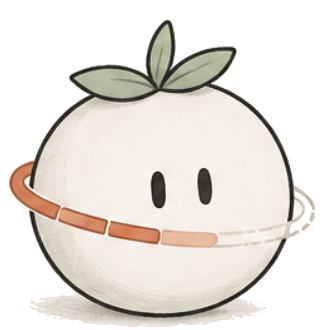
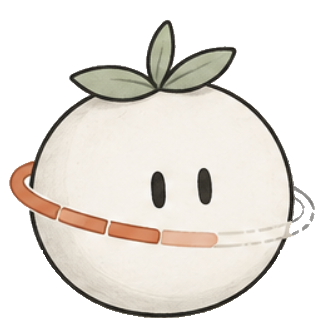
fix(companion): multi-tab position sync, isolate overlay from web app, remove red dot, fix dark shadow (ADR-0071)
- Scope extension overlay outside MEANT web app (prevent duplicate companion)
- Synchronize companion coordinates across all tabs in real-time
- Remove inner red dot artifact from tomato character face
- Segment and defringe tomato sprite, replacing baked cream puddle with adaptive dark-mode drop-shadow

diff --git a/app/layout.tsx b/app/layout.tsx
@@ -51,6 +51,7 @@ export default async function RootLayout({
     <html
       lang="en"
       data-theme={theme}
+      data-meant-web="true"
       className={`${fraunces.variable} ${publicSans.variable} ${sometypeMono.variable}`}
     >
       <body className="m-app">{children}</body>

diff --git a/docs/adr/ADR-0071-companion-overlay-scope-tab-sync-and-dark-theme.md b/docs/adr/ADR-0071-companion-overlay-scope-tab-sync-and-dark-theme.md
@@ -1,0 +1,37 @@
+# ADR-0071 — Companion Overlay Scope, Multi-Tab Position Sync, and Dark Theme Rendering
+
+- **Date:** 2026-09-21
+- **Status:** Accepted
+- **Depends on:** ADR-0058 (companion as input device), ADR-0065 (cream product, dark fallback), ADR-0069 (Codex Pet Tomato Companion), ADR-0070 (companion persistent presence)
+- **Context:**
+  Following the introduction of the Tomato Companion Character (`the-tomato-transparent.png`) and persistent overlay presence (ADR-0070), four visual and spatial integration defects were observed in user feedback:
+  1. **Red Dot Artifact on Character Face:** A 10px clay `.dot` (originally the geometric companion core) remained rendered in the center of the tomato character sprite, appearing as an unintended orange dot directly over the tomato's eye.
+  2. **Lack of Real-Time Multi-Tab Position Synchronization:** While the companion saved its dragged coordinates as fractional offsets to `chrome.storage.local`, other open tabs never listened to `changes.companionPosition`. Repositioning the companion in one tab left it in stale locations across other open tabs.
+  3. **Duplicate Companion on MEANT Web App:** The MEANT web app (`app/dashboard`, `app/ledger`) already embeds the native React `<CompanionPet />` component. Because the Chrome extension injected `companion-overlay.js` on `<all_urls>`, both the web app's native companion and the floating draggable extension companion appeared simultaneously on `localhost:3000` / `meant.app`.
+  4. **White Ground Shadow Defect in Dark Mode:** The raster sprite `the-tomato-transparent.png` contained a baked-in ground shadow watercolor wash sampled from cream paper (`RGB 218–245`). On light surfaces (`#F3F1EE`), this rendered as an acceptable faint tint, but on dark backgrounds (`#14120F`) or under system dark mode, the opaque light pixels rendered as an ungrounded white puddle beneath the character.
+
+- **Decision:**
+  1. **Removal of Red Dot Artifact:**
+     - Removed the inner `.dot` element from `extension/companion-overlay.js`.
+     - The Tomato Character itself serves as the bodily presence; state and receipts are communicated via the outer `.ring` (terracotta `--m-clay`), buoyant hover physics, and the hover pill.
+  2. **Real-Time Cross-Tab Position Synchronization:**
+     - `extension/companion-overlay.js` listens to `changes.companionPosition` in `chrome.storage.onChanged`. When position changes in any tab, all other open tabs immediately invoke `positionHost()` unless currently being dragged.
+     - Added `visibilitychange` and `resize` listeners ensuring that tab switches and viewport changes reposition the companion reliably.
+  3. **Exclusive Surface Scoping (No Double Companions):**
+     - The floating extension overlay companion (`[data-meant-companion]`) is strictly scoped to appear *outside* the MEANT web application.
+     - Added `isMeantWebApp()` detection in `companion-overlay.js` checking for `data-meant-web`, `m-app`, `.m-web-companion-actor`, `[data-surface]`, or origins matching `localhost`, `127.0.0.1`, `meant.app`. If true, the extension overlay does not mount, or immediately unmounts.
+     - `reinjectCompanion()` in `extension/sw.js` skips MEANT web app tabs and clears any leftover overlay hosts.
+     - Root Next.js layout (`app/layout.tsx`) adds `data-meant-web="true"` to `<html>`.
+  4. **Dark Mode Shadow & Clean Asset Extraction:**
+     - Replaced `the-tomato-transparent.png` across `extension/assets/`, `public/assets/`, and `design/canvas/explore/assets/` with an expertly segmented master asset. The baked cream-paper ground shadow was removed entirely, the right sketch loop was cleaned to proper transparency with proportional alpha, and perimeter antialiasing was defringed.
+     - Grounding and depth are now handled dynamically via CSS:
+       - Light mode: `filter: drop-shadow(0 4px 10px rgba(20, 18, 15, 0.12))` (idle), lifting to `drop-shadow(0 12px 20px rgba(20, 18, 15, 0.16))` on hover.
+       - Dark mode (`prefers-color-scheme: dark` and `[data-theme="dark"]`): `filter: drop-shadow(0 4px 12px rgba(0, 0, 0, 0.6))` (idle), lifting to `drop-shadow(0 10px 24px rgba(0, 0, 0, 0.8))` on hover.
+       - Eliminates white puddle artifacts on dark surfaces while providing physical elevation in both schemes.
+
+- **Consequences:**
+  - `extension/companion-overlay.js`: removed `.dot`, added `isMeantWebApp()` bail, synced `companionPosition` across storage changes, and updated dark scheme drop-shadows.
+  - `extension/sw.js`: skips reinjection on MEANT web app tabs.
+  - `app/layout.tsx`: marked with `data-meant-web="true"`.
+  - `app/globals.css`: added `[data-theme="dark"]` drop-shadows for `.m-companion-body-wrap`.
+  - `e2e/companion.spec.ts`: updated suite with 17 passing integration tests verifying external page visibility, absence on MEANT web pages, real-time multi-tab position sync, and contrast safety without `.dot`.
